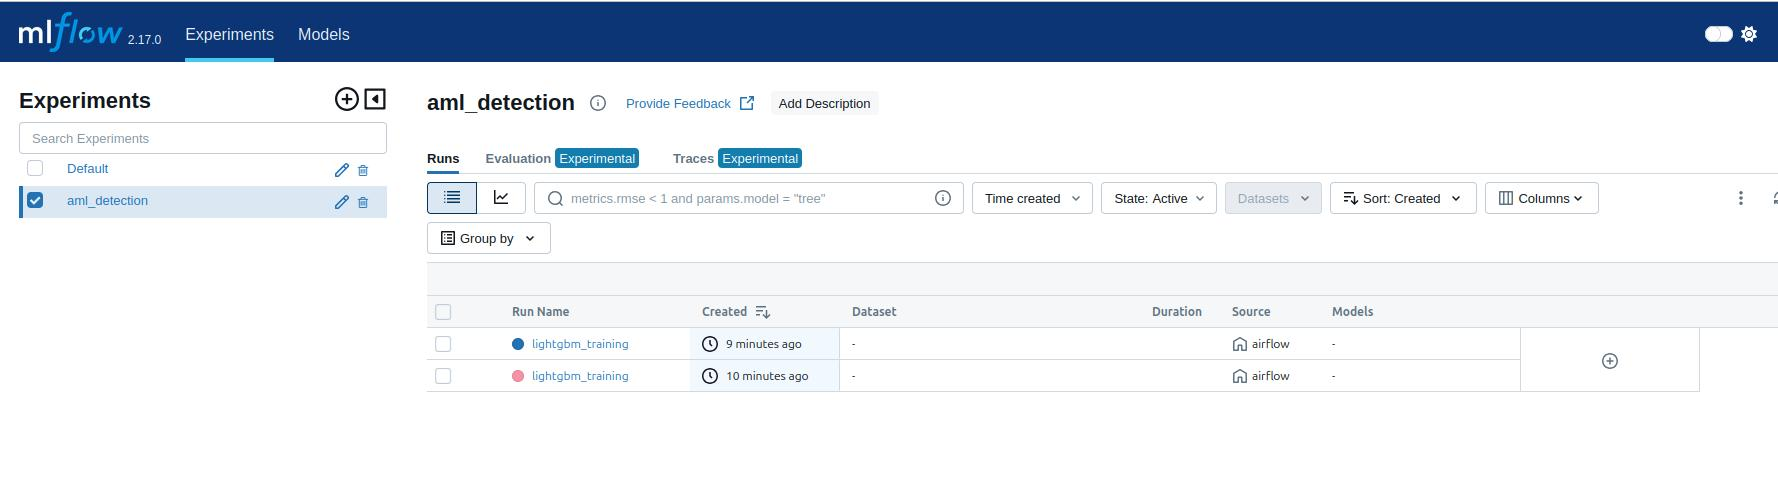
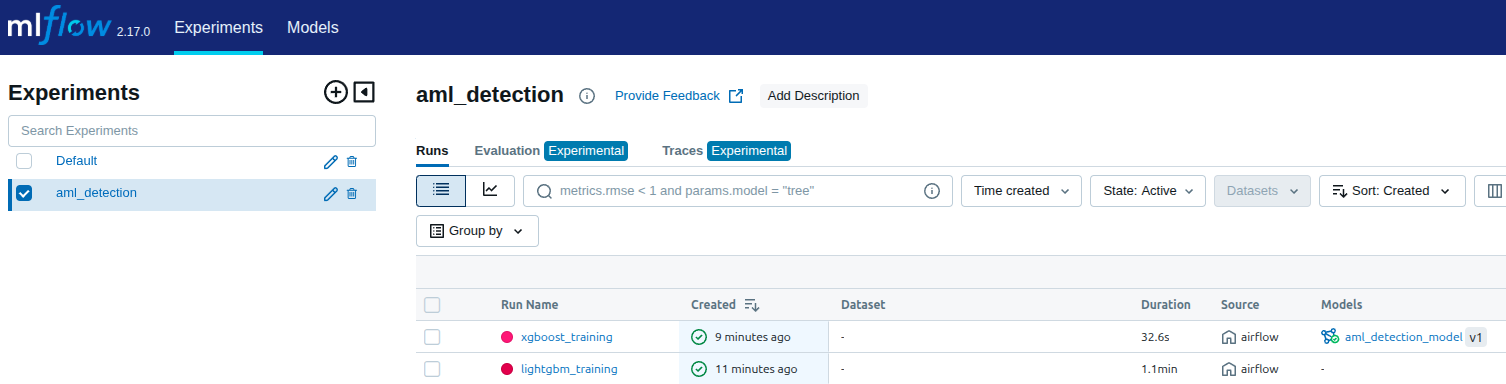
renew screenshots

diff --git a/README.md b/README.md
@@ -184,6 +184,10 @@ docker-compose up -d
 - Dashboard: `http://localhost:8501`
 - MinIO: `http://localhost:9001`
 
+## Пример Evedently отчета по мониторингу дрейфа данных  
+
+![schema](https://github.com/MaxKots/HSE_AML_MLOps_pipeline/blob/main/.assets/4.jpg)
+
 ## Интерфейс dashboard
 
 ![streamlit](https://github.com/MaxKots/HSE_AML_MLOps_pipeline/blob/main/.assets/1.jpg)